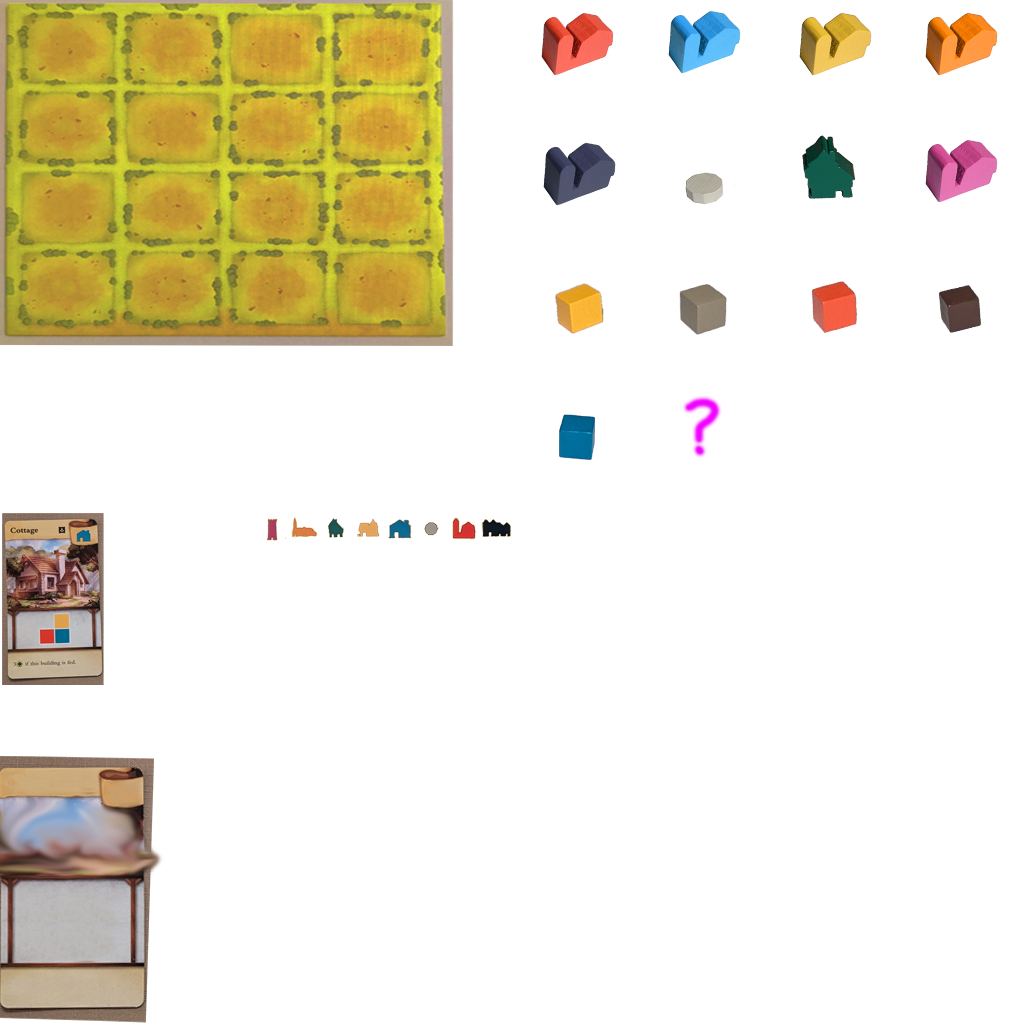
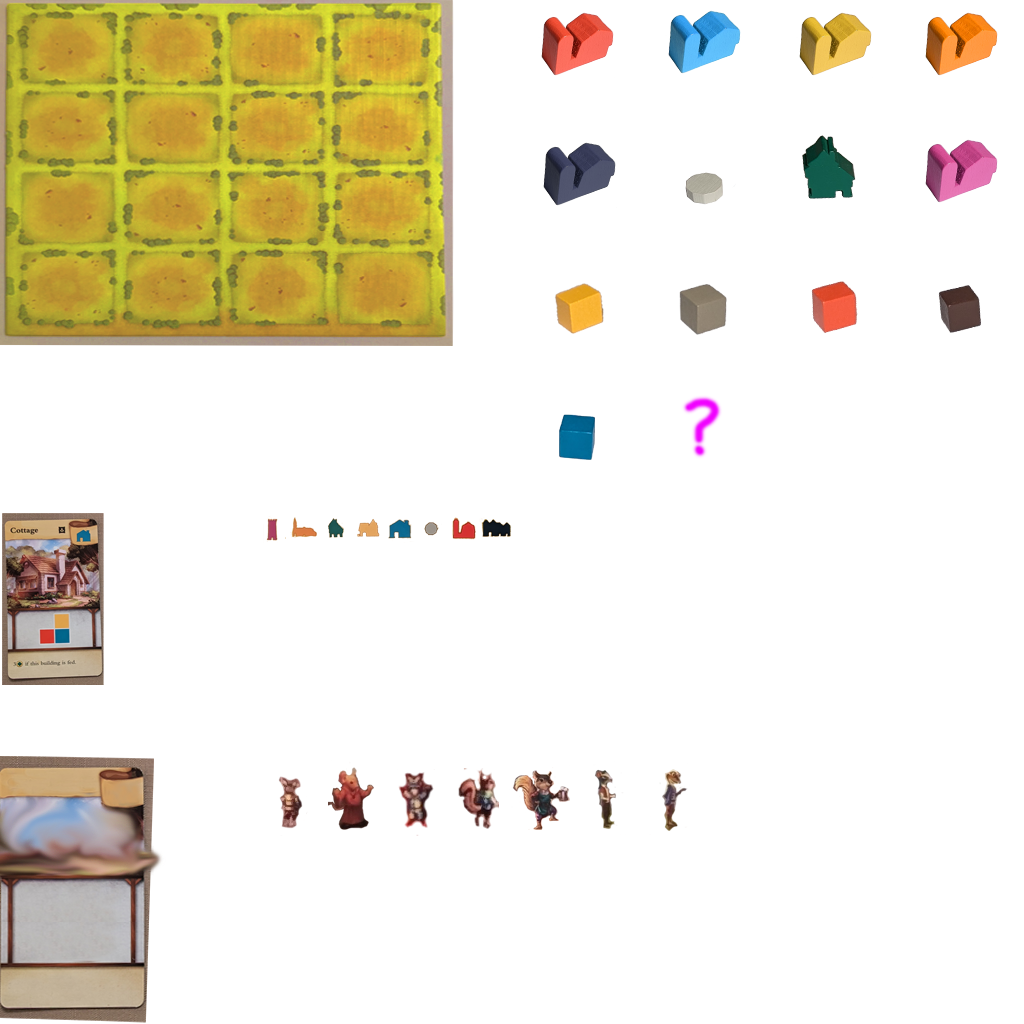
critters

Changed region(s): [[0.25, 0.75, 0.6875, 0.8125]]

diff --git a/iris/gamemode.js b/iris/gamemode.js
@@ -1,5 +1,6 @@
 import Towns from './towns.js';
 import DrawCard from './drawcard.js';
+import Critters from './critters.js';
 
 export default class GameMode {
   constructor(iris) {
@@ -139,6 +140,7 @@ export default class GameMode {
     this.iris.addText('score', this.layout.score.bounds);
 
     this._setCard(0);
+    this.critters = new Critters(this.iris);
   }
 
   _setCard(i) {
@@ -218,6 +220,8 @@ export default class GameMode {
         ctx.strokeRect(...this.layout.cards[c].bounds);
       }
     }
+
+    this.critters.render(dt);
 
     // cursor
     if (this.iris.areas.start && this.dragMeeple) {

diff --git a/iris/critters.js b/iris/critters.js
@@ -1,0 +1,16 @@
+export default class DrawCard {
+  constructor(iris) {
+    this.iris = iris;
+    this.context = iris.context;
+  }
+
+  render() {
+    this.iris.helly.draw('critter0', [160, 518]);
+    this.iris.helly.draw('critter1', [200, 518]);
+    this.iris.helly.draw('critter2', [240, 518]);
+    this.iris.helly.draw('critter3', [280, 518]);
+    this.iris.helly.draw('critter4', [320, 518]);
+    this.iris.helly.draw('critter5', [360, 518]);
+    this.iris.helly.draw('critter6', [400, 518]);
+  }
+}
